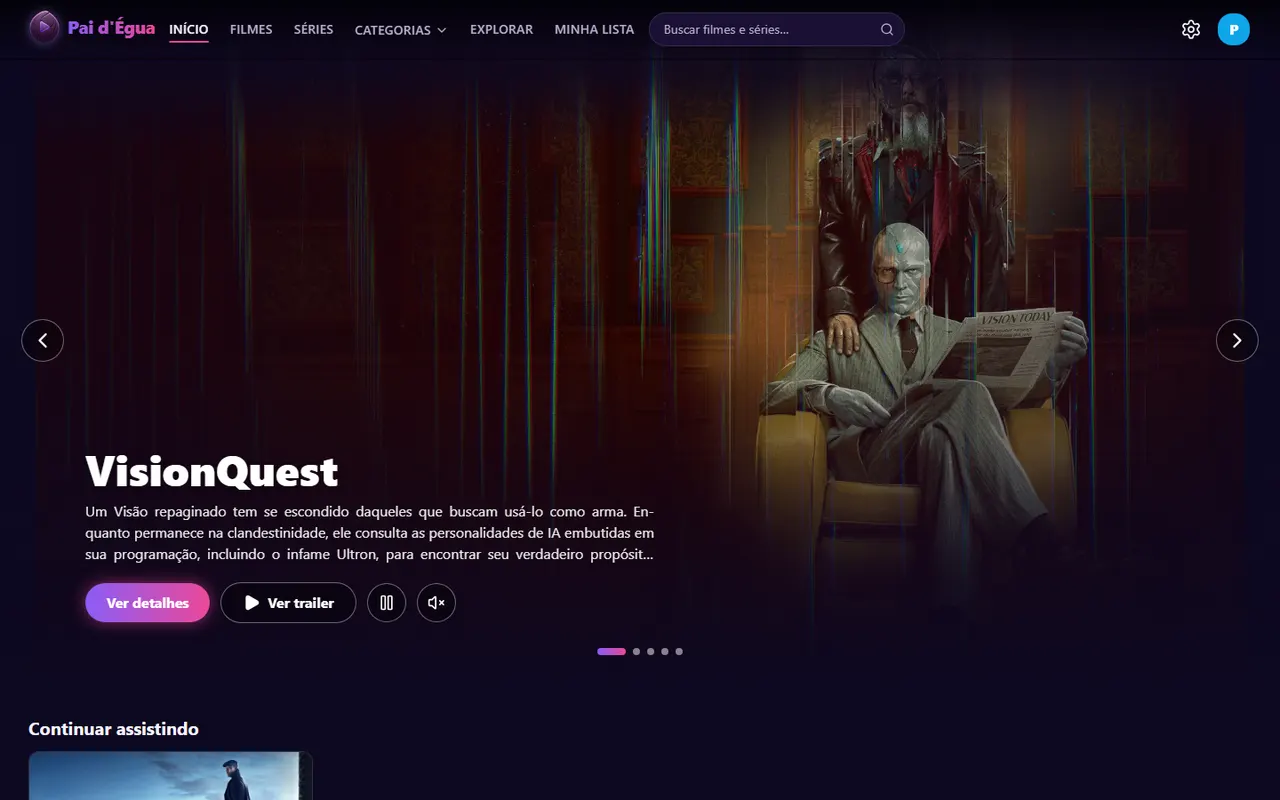
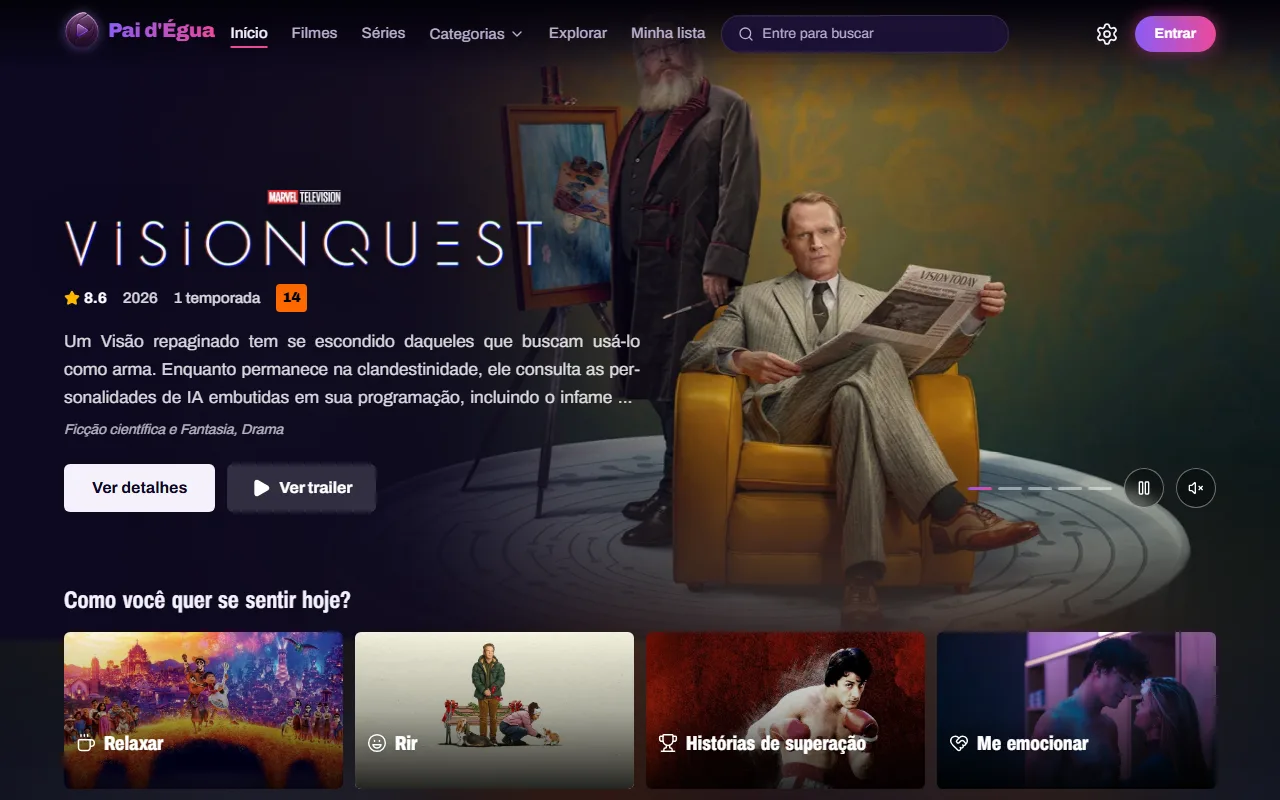
docs: link do site, imagem nova do Início e registro da publicação
README com o endereço na Vercel, a foto do visual novo e a linha de
publicação (Vercel e Supabase). O progresso registra a troca do Neon para
o Supabase, a RLS conferida e a troca do token do TMDB e do secret local.

diff --git a/README.md b/README.md
@@ -2,9 +2,9 @@
 
 **Catálogo dos filmes e séries incluídos nas assinaturas de streaming no Brasil**, com contas de família, perfil Kids com controle dos pais, listas pessoais e indicações. "Pai d'égua", no Pará, quer dizer "muito bom".
 
-> 🔗 **Ver no ar:** _link da Vercel (em breve)_ · entre em **"Experimentar sem cadastro"** para usar a conta de demonstração (PIN dos pais: `1234`).
+> 🔗 **Ver no ar:** [pai-degua.vercel.app](https://pai-degua.vercel.app) · entre em **"Experimentar sem cadastro"** para usar a conta de demonstração (PIN dos pais: `1234`).
 
-![Início do Pai d'Égua com o destaque em trailer](docs/imagens/inicio.webp)
+![Início do Pai d'Égua com o destaque em tela cheia e "Como você quer se sentir hoje?"](docs/imagens/inicio.webp)
 
 ## O que dá para fazer
 
@@ -47,12 +47,14 @@ A acessibilidade foi tratada como requisito desde o começo, não como ajuste no
 | Banco | PostgreSQL com Drizzle ORM e migrações; PGlite em desenvolvimento e testes, Supabase em produção |
 | Login | Better Auth (e-mail e senha, sessão de 30 dias), e-mail de recuperação com Resend |
 | Testes | Vitest e Testing Library (unidade e componentes), Playwright com axe (ponta a ponta) |
+| Publicação | Vercel, com o banco no Supabase (região São Paulo) |
 
 **Alguns cuidados que valem mencionar:**
 - Toda ação usa o perfil da sessão no servidor; o navegador nunca escolhe de quem é a lista.
 - O cadeado do Kids é conferido no servidor, e títulos bloqueados não mandam imagem nem sinopse ao navegador. Quando o TMDB tem mais de uma classificação brasileira para o mesmo título, vale a mais restritiva.
 - As marcações aparecem na hora (atualização otimista) e voltam atrás se o servidor recusar; cliques repetidos no mesmo título entram numa fila única, mesmo vindos de cartazes diferentes.
 - As fileiras pessoais carregam em partes, sem atrasar o resto da página.
+- No Supabase, todas as tabelas têm RLS ligada e nenhuma política: o site fala com o banco direto pelo servidor, e a API pública do Supabase não lê nem grava nada.
 
 ## Como rodar no seu computador
 
@@ -81,7 +83,7 @@ Em etapas, cada uma com especificação, plano e revisão de código antes de ju
 | A – Catálogo | ✅ |
 | B – Contas, perfis, Kids, listas e indicações | ✅ |
 | C – Assinatura (pagamento simulado) | planejada |
-| D – Personalização (avatares regionais e capa do perfil) | planejada |
+| D – Personalização (avatares regionais e capa do perfil) | em andamento |
 
 ## Créditos
 

diff --git a/docs/progresso.md b/docs/progresso.md
@@ -1,15 +1,17 @@
 # Pai d'Égua: progresso do projeto
 
-Atualizado em 05/11/2026. Marque aqui o que for sendo concluído.
+Atualizado em 08/11/2026. Marque aqui o que for sendo concluído.
+
+**No ar:** [pai-degua.vercel.app](https://pai-degua.vercel.app)
 
 ## Visão geral
 
 | Etapa | O que é | Situação |
 |---|---|---|
-| **A – Catálogo** | O site em si: vitrine, busca, páginas de filmes e séries, visual e acessibilidade | **Quase pronta** (falta publicar) |
+| **A – Catálogo** | O site em si: vitrine, busca, páginas de filmes e séries, visual e acessibilidade | **Publicada** (faltam ajustes pequenos) |
 | **B – Contas e Perfis** | Login, perfis, Kids com controle dos pais, favoritos, "Continuar assistindo" | **B1 e B2 prontas** e juntadas ao `main` |
 | **C – Assinatura** | Planos, teste grátis e pagamento simulado | Não iniciada |
-| **D – Personalização** | Avatares regionais e capa do perfil | Não iniciada |
+| **D – Personalização** | Avatares regionais e capa do perfil | Em andamento (protótipo) |
 
 A Etapa B é a maior das três que faltam, porque traz banco de dados e login. A C e a D são menores e dependem da B.
 
@@ -62,7 +64,17 @@ A Etapa B é a maior das três que faltam, porque traz banco de dados e login. A
 - [ ] Atualizar a especificação com o que mudou (nome, menu, abertura, protetor de tela)
 - [x] Juntar o ramo `etapa-a-catalogo` ao `main` (28/10/2026)
 - [x] README de portfólio (com imagens e as decisões de acessibilidade)
-- [ ] Publicar na Vercel (link aberto para o portfólio)
+- [x] Publicar na Vercel (link aberto para o portfólio)
+
+### Publicação (05 a 08/11/2026)
+- [x] Site na Vercel: [pai-degua.vercel.app](https://pai-degua.vercel.app)
+- [x] Banco de produção trocado do Neon para o **Supabase** (região São Paulo), com as migrações aplicadas
+- [x] RLS ligada em todas as tabelas, sem políticas: só o servidor do site acessa o banco (conferido no Security Advisor em 08/11, sem o alerta "RLS Disabled in Public")
+- [x] Conexão com o certificado do Supabase
+- [x] Registro do motivo quando o destaque fica sem dados do TMDB (sem expor o token)
+- [x] Token do TMDB trocado, no `.env.local` e na Vercel, depois de aparecer no chat
+- [x] `BETTER_AUTH_SECRET` local trocado
+- [x] Imagem do Início no README atualizada com o visual novo
 - [x] Apagar a pasta `app-temp` (sobra da criação do projeto)
 
 **Ajustes pequenos já conhecidos**
